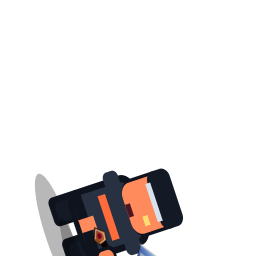
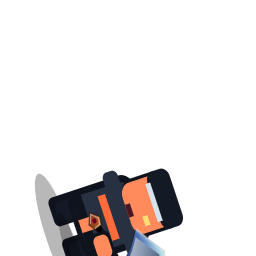
v364: lam lai cach tan cong cua bua va riu - bua giu cao roi dap xuong, riu bo che tu tren xuong; xoay nong vua khi theo pha hit, giu bong tren mat dat, ngi dang dum don cac goc duoc dieu chinh; bump all pins to 364, export 44 frames

Changed region(s): [[0.3438, 0.8125, 0.4688, 1.0], [0.5, 0.875, 0.6562, 1.0], [0.25, 0.875, 0.2812, 0.9062]]

diff --git a/src/game.js b/src/game.js
@@ -10,8 +10,17 @@
   const SIGNAL_RELAY_URLS = ["https://ntfy.envs.net", "https://ntfy.mzte.de", "https://ntfy.adminforge.de", "https://ntfy.sh"];
   const SIGNAL_REALTIME_RELAY_LIMIT = 2;
   const SIGNAL_REALTIME_TYPES = new Set(["state", "snapshot", "attack", "skill", "collect", "openChest", "dropItem", "damage", "chooseDoor"]);
-  const APP_VERSION = "20260718-pixel-vfx-363";
+  const APP_VERSION = "20260718-pixel-vfx-364";
   const CHANGELOG_ENTRIES = [
+    {
+      version: APP_VERSION,
+      title: "Đập bổ xuống — làm lại chuỗi tấn công búa & rìu",
+      items: [
+        "Búa: giơ cao lên đỉnh đầu lúc vung, rồi đập mạnh xuống đất, trụ người và ngã người theo nhịp đập (windup giơ lên, hit hạ đầu búa).",
+        "Rìu: bổ chẻ từ trên xuống — lưỡi rìu giơ cao ngang vai rồi chém mạnh xuống, thân người cúi theo góc bổ.",
+        "Xoay nòng vũ khí theo chuỗi attack của từng loại: búa/-1.25→+0.6 rad, rìu/-1.25→+0.7 rad; bóng dưới đất giữ nguyên, không xoay theo.",
+      ],
+    },
     {
       version: APP_VERSION,
       title: "Rìu song lưỡi Huyết Thạch theo thiết kế người chơi",
@@ -31415,19 +31424,19 @@
           attackPose.squashY = hitFrame ? 0.91 : holdFrame ? 0.97 : 1;
           attackPose.crouch = hitFrame ? 3 : holdFrame ? 1 : 0;
         } else if (character.id === "hammer") {
-          attackPose.lift = hitFrame ? -1 : holdFrame ? -2 : recoilFrame ? 2 : 0;
-          attackPose.shift = dir * (hitFrame ? 11 : holdFrame ? 4 : recoilFrame ? -4 : 0);
-          attackPose.lean = dir * (hitFrame ? 0.15 : holdFrame ? 0.06 : recoilFrame ? -0.05 : 0);
-          attackPose.squashX = hitFrame ? 1.15 : holdFrame ? 1.05 : 1;
-          attackPose.squashY = hitFrame ? 0.89 : holdFrame ? 0.96 : 1;
-          attackPose.crouch = hitFrame ? 5 : holdFrame ? 3 : 1;
+          attackPose.lift = actionProgress < 0.22 ? -1 : hitFrame ? -1 : holdFrame ? -2 : recoilFrame ? 2 : 0;
+          attackPose.shift = dir * (actionProgress < 0.22 ? -3 : hitFrame ? 12 : holdFrame ? 5 : recoilFrame ? -4 : 0);
+          attackPose.lean = dir * (actionProgress < 0.22 ? -0.09 : hitFrame ? 0.16 : holdFrame ? 0.07 : recoilFrame ? -0.06 : 0);
+          attackPose.squashX = hitFrame ? 1.16 : holdFrame ? 1.05 : 1;
+          attackPose.squashY = hitFrame ? 0.88 : holdFrame ? 0.96 : 1;
+          attackPose.crouch = actionProgress < 0.22 ? 1 : hitFrame ? 6 : holdFrame ? 4 : recoilFrame ? 2 : 1;
         } else if (character.id === "axe") {
-          attackPose.lift = hitFrame ? -2 : holdFrame ? -1 : recoilFrame ? 1 : 0;
-          attackPose.shift = dir * (hitFrame ? 8 : holdFrame ? 3 : recoilFrame ? -3 : 0);
-          attackPose.lean = dir * (hitFrame ? 0.19 : holdFrame ? 0.08 : recoilFrame ? -0.06 : 0);
+          attackPose.lift = actionProgress < 0.22 ? -1 : hitFrame ? -2 : holdFrame ? -1 : recoilFrame ? 1 : 0;
+          attackPose.shift = dir * (actionProgress < 0.22 ? -3 : hitFrame ? 10 : holdFrame ? 4 : recoilFrame ? -3 : 0);
+          attackPose.lean = dir * (actionProgress < 0.22 ? -0.1 : hitFrame ? 0.2 : holdFrame ? 0.09 : recoilFrame ? -0.07 : 0);
           attackPose.squashX = hitFrame ? 1.12 : holdFrame ? 1.04 : 1;
           attackPose.squashY = hitFrame ? 0.91 : holdFrame ? 0.96 : 1;
-          attackPose.crouch = hitFrame ? 4 : holdFrame ? 2 : 0;
+          attackPose.crouch = actionProgress < 0.22 ? 1 : hitFrame ? 5 : holdFrame ? 3 : recoilFrame ? 2 : 0;
         } else {
           attackPose.lift = hitFrame ? -3 : holdFrame ? -2 : recoilFrame ? 1 : 0;
           attackPose.shift = dir * (hitFrame ? 6 : holdFrame ? 3 : recoilFrame ? -3 : 0);
@@ -31934,15 +31943,20 @@
           ctx.restore();
         }
       } else if (character.id === "hammer") {
-        const swing = hitFrame ? 24 : holdFrame ? 12 : recoilFrame ? -5 : 2;
+        const swing = actionProgress < 0.22 ? -4 : hitFrame ? 16 : holdFrame ? 8 : recoilFrame ? -6 : 2;
+        const hammerSpin = anim === "attack"
+          ? (actionProgress < 0.22 ? -0.3 - 0.95 * clamp(actionProgress / 0.22, 0, 1)
+            : hitFrame ? 0.6 : holdFrame ? 0.38 : recoilFrame ? 0.06 : 0)
+          : 0;
         applyWeaponFacing(facing);
-        ctx.translate(swing, 0);
-        ctx.lineCap = "butt";
-        ctx.lineJoin = "miter";
         ctx.fillStyle = "rgba(0,0,0,0.26)";
         ctx.beginPath();
         ctx.ellipse(28, 14, 28, 3.4, 0, 0, TAU);
         ctx.fill();
+        ctx.rotate(hammerSpin);
+        ctx.translate(swing, 0);
+        ctx.lineCap = "butt";
+        ctx.lineJoin = "miter";
         const handle = ctx.createLinearGradient(1, -2, 34, 2);
         handle.addColorStop(0, "#6b4a2b");
         handle.addColorStop(0.5, "#9a6d3f");
@@ -31981,8 +31995,17 @@
         ctx.fillRect(headX + 3, -12, 1.6, 7);
         ctx.globalAlpha = 1;
       } else if (character.id === "axe") {
-        const swing = hitFrame ? 22 : holdFrame ? 11 : recoilFrame ? -4 : 2;
+        const swing = actionProgress < 0.22 ? -4 : hitFrame ? 16 : holdFrame ? 8 : recoilFrame ? -5 : 2;
+        const axeSpin = anim === "attack"
+          ? (actionProgress < 0.22 ? -0.25 - 1.0 * clamp(actionProgress / 0.22, 0, 1)
+            : hitFrame ? 0.7 : holdFrame ? 0.45 : recoilFrame ? 0.1 : 0)
+          : 0;
         applyWeaponFacing(facing);
+        ctx.fillStyle = "rgba(0,0,0,0.26)";
+        ctx.beginPath();
+        ctx.ellipse(16, 17, 22, 3.2, 0, 0, TAU);
+        ctx.fill();
+        ctx.rotate(axeSpin);
         ctx.translate(swing * 0.8, 0);
         ctx.lineCap = "round";
         ctx.lineJoin = "round";
@@ -32042,10 +32065,6 @@
         gemGrad.addColorStop(0, "#ffb199");
         gemGrad.addColorStop(0.3, "#ff0844");
         gemGrad.addColorStop(1, "#6a001b");
-        ctx.fillStyle = "rgba(0,0,0,0.26)";
-        ctx.beginPath();
-        ctx.ellipse(16, 17, 22, 3.2, 0, 0, TAU);
-        ctx.fill();
         wpoly([[235, 100], [250, 20], [265, 100]], bladeOuterGrad, bladeInnerGrad, 2);
         wpoly([[250, 20], [265, 100], [250, 95]], bladeInnerGrad);
         wpoly([[235, 90], [265, 90], [265, 440], [235, 440]], woodGrad, "#000000", 2);

diff --git a/index.html b/index.html
@@ -5,16 +5,16 @@
     <meta name="viewport" content="width=device-width, initial-scale=1, maximum-scale=1, user-scalable=no, viewport-fit=cover" />
     <meta name="theme-color" content="#090b12" />
     <meta name="description" content="Soulrift - game vượt ải hành động nhiều người với power, boss, kho báu và nhân vật riêng." />
-    <meta name="soulrift-version" content="20260718-pixel-vfx-363" />
+    <meta name="soulrift-version" content="20260718-pixel-vfx-364" />
     <meta name="mobile-web-app-capable" content="yes" />
     <meta name="apple-mobile-web-app-capable" content="yes" />
     <meta name="apple-mobile-web-app-title" content="Soulrift" />
     <meta name="apple-mobile-web-app-status-bar-style" content="black-translucent" />
-    <link rel="manifest" href="manifest.webmanifest?v=20260718-pixel-vfx-363" />
+    <link rel="manifest" href="manifest.webmanifest?v=20260718-pixel-vfx-364" />
     <link rel="icon" href="assets/icons/app-icon-20260605-logo-xl-149.svg" type="image/svg+xml" />
     <link rel="apple-touch-icon" href="assets/icons/apple-touch-icon-20260605-logo-xl-149.png" />
     <title>SOULRIFT</title>
-    <link rel="stylesheet" href="styles.css?v=20260718-pixel-vfx-363" />
+    <link rel="stylesheet" href="styles.css?v=20260718-pixel-vfx-364" />
   </head>
   <body>
     <canvas id="gameCanvas" aria-label="Khung chơi Soulrift"></canvas>
@@ -157,7 +157,7 @@
     </div>
 
     <script async src="https://unpkg.com/peerjs@1.5.5/dist/peerjs.min.js"></script>
-  <script src="src/pwa.js?v=20260718-pixel-vfx-363"></script>
-  <script src="src/game.js?v=20260718-pixel-vfx-363"></script>
+  <script src="src/pwa.js?v=20260718-pixel-vfx-364"></script>
+  <script src="src/game.js?v=20260718-pixel-vfx-364"></script>
   </body>
 </html>

diff --git a/service-worker.js b/service-worker.js
@@ -1,20 +1,20 @@
-const SOULRIFT_CACHE = "soulrift-pwa-20260718-pixel-vfx-363";
+const SOULRIFT_CACHE = "soulrift-pwa-20260718-pixel-vfx-364";
 const SOULRIFT_ASSETS = [
   "./",
   "./index.html",
-  "./styles.css?v=20260718-pixel-vfx-363",
-  "./src/pwa.js?v=20260718-pixel-vfx-363",
-  "./src/game.js?v=20260718-pixel-vfx-363",
-  "./manifest.webmanifest?v=20260718-pixel-vfx-363",
+  "./styles.css?v=20260718-pixel-vfx-364",
+  "./src/pwa.js?v=20260718-pixel-vfx-364",
+  "./src/game.js?v=20260718-pixel-vfx-364",
+  "./manifest.webmanifest?v=20260718-pixel-vfx-364",
   "./version.json",
   "./assets/icons/app-icon-20260605-logo-xl-149.svg",
   "./assets/icons/app-icon-20260605-logo-xl-149-192.png",
   "./assets/icons/app-icon-20260605-logo-xl-149-512.png",
   "./assets/icons/app-icon-20260605-logo-xl-149-maskable-512.png",
   "./assets/icons/apple-touch-icon-20260605-logo-xl-149.png",
-  "./assets/exported/asset-manifest.json?v=20260718-pixel-vfx-363",
-  "./assets/exported-atlas/atlas-manifest.json?v=20260718-pixel-vfx-363",
-  "./assets/sprites/monsters/shadow-goblin.png?v=20260718-pixel-vfx-363"
+  "./assets/exported/asset-manifest.json?v=20260718-pixel-vfx-364",
+  "./assets/exported-atlas/atlas-manifest.json?v=20260718-pixel-vfx-364",
+  "./assets/sprites/monsters/shadow-goblin.png?v=20260718-pixel-vfx-364"
 ];
 
 self.addEventListener("install", (event) => {

diff --git a/autostart-vfx.html b/autostart-vfx.html
@@ -16,7 +16,7 @@
   </style>
 </head>
 <body>
-  <iframe id="game" src="/index.html?autostart-vfx=20260718-pixel-vfx-363"></iframe>
+  <iframe id="game" src="/index.html?autostart-vfx=20260718-pixel-vfx-364"></iframe>
   <script>
     const frame = document.getElementById("game");
     const powers = ["fire", "ice", "lightning", "shadow", "blood", "gravity", "crystal", "nature", "void", "time"];

diff --git a/src/pwa.js b/src/pwa.js
@@ -1,7 +1,7 @@
 (() => {
   "use strict";
 
-  const APP_VERSION = "20260718-pixel-vfx-363";
+  const APP_VERSION = "20260718-pixel-vfx-364";
   const APP_ICON = "assets/icons/app-icon-20260605-logo-xl-149.svg";
   let deferredInstallPrompt = null;
   let startGame = null;
